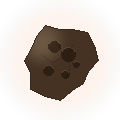
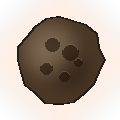
Changing sprites now YOLOv5 only detects 2 kind of objects (clock - Obstacle and airplane - Player)

Changed region(s): [[0.125, 0.125, 0.9, 0.875], [0.5, 0.575, 0.6, 0.7], [0.475, 0.6, 0.525, 0.625]]

diff --git a/js/Game.js b/js/Game.js
@@ -45,9 +45,25 @@ export default class Game {
     this.levelManager = new LevelManager() // Gerenciador de dificuldade
     this.predictions = []  // Detecções do YOLO (bounding boxes para debug visual)
 
+    // Sistema de anúncio de level up
+    this.levelAnnounce = null  // { level, startTime }
+    this.levelColors = [
+      '#00FF88', // Level 1 — verde neon
+      '#00BFFF', // Level 2 — azul celeste
+      '#FFD700', // Level 3 — dourado
+      '#FF6B35', // Level 4 — laranja
+      '#FF1493', // Level 5 — rosa forte
+      '#9B59FF', // Level 6 — roxo
+      '#00FFFF', // Level 7 — ciano
+      '#FF0040', // Level 8 — vermelho intenso
+    ]
+
     new Input(this.player) // Registra os controles do teclado (Espaço → pulo)
 
     this.setupWorker() // Configura comunicação com o Worker
+
+    // Mostra "LEVEL 1" ao iniciar o jogo
+    this.levelAnnounce = { level: 1, startTime: performance.now() }
   }
 
   // setupWorker — Configura envio periódico de frames e escuta respostas do Worker
@@ -89,16 +105,6 @@ export default class Game {
       //
       this.worker.postMessage({ type: 'predict', image: bitmap }, [bitmap])
 
-      // Também envia o estado do jogo (dados numéricos, mais leve)
-      this.worker.postMessage({
-        type: 'gameState',
-        state: {
-          player: { x: this.player.x, y: this.player.y, vy: this.player.vy },
-          obstacles: this.obstacles.map(o => ({ x: o.x, y: o.y, w: o.w, h: o.h })),
-          score: this.score,
-          level: this.levelManager.level
-        }
-      })
     }, 200)
   }
 
@@ -138,13 +144,16 @@ export default class Game {
       o.update(this.levelManager.speed()) // Move o obstáculo para a esquerda na velocidade do nível
 
       if (collide(this.player, o)) { // Testa colisão jogador ↔ obstáculo
-        this.gameOver()              // Se colidiu, fim de jogo
+        this.gameOver();
+        return;// Se colidiu, fim de jogo
       }
 
       if (o.x + o.w < 0) {                  // Se o obstáculo saiu completamente da tela pela esquerda
         this.obstacles.splice(i, 1)          // Remove da lista
         this.score++                         // Incrementa a pontuação
-        this.levelManager.update(this.score) // Verifica se deve subir de nível
+        if (this.levelManager.update(this.score)) { // Verifica se subiu de nível
+          this.levelAnnounce = { level: this.levelManager.level, startTime: performance.now() }
+        }
       }
     }
   }
@@ -189,6 +198,9 @@ export default class Game {
 
     // Desenha bounding boxes das detecções YOLO (retângulos vermelhos)
     this.drawPredictions();
+
+    // Desenha anúncio de level up (se ativo)
+    this.drawLevelAnnounce()
     
     // Se o jogo acabou, desenha a tela de Game Over por cima de tudo
     if (!this.running) {
@@ -207,6 +219,50 @@ export default class Game {
       this.ctx.font = "14px Arial"
       this.ctx.fillText(`${pred.label} ${(pred.confidence * 100).toFixed(0)}%`, x1, y1 - 4)
     }
+  }
+
+  // drawLevelAnnounce — Exibe "LEVEL X" grande na tela por 2 segundos com fade out
+  drawLevelAnnounce() {
+    if (!this.levelAnnounce) return
+
+    const elapsed = performance.now() - this.levelAnnounce.startTime
+    const duration = 2000 // 2 segundos de exibição
+
+    if (elapsed > duration) {
+      this.levelAnnounce = null
+      return
+    }
+
+    const cx = this.canvas.width / 2
+    const cy = this.canvas.height / 2
+
+    // Opacidade: 100% no primeiro segundo, fade out no segundo
+    const alpha = elapsed < 1000 ? 1 : 1 - (elapsed - 1000) / 1000
+
+    // Escala: começa grande (1.3) e diminui até 1.0 nos primeiros 300ms
+    const scale = elapsed < 300 ? 1.3 - 0.3 * (elapsed / 300) : 1.0
+
+    const level = this.levelAnnounce.level
+    const color = this.levelColors[level - 1] || '#FFFFFF'
+
+    this.ctx.save()
+    this.ctx.globalAlpha = alpha
+    this.ctx.textAlign = 'center'
+
+    // Fundo escuro sutil atrás do texto
+    this.ctx.fillStyle = `rgba(0, 0, 0, ${0.4 * alpha})`
+    this.ctx.fillRect(0, cy - 60 * scale, this.canvas.width, 120 * scale)
+
+    // Texto "LEVEL X" com borda preta
+    this.ctx.font = `bold ${Math.round(64 * scale)}px Impact, Arial`
+    this.ctx.strokeStyle = 'black'
+    this.ctx.lineWidth = 6
+    this.ctx.strokeText('LEVEL ' + level, cx, cy + 10)
+    this.ctx.fillStyle = color
+    this.ctx.fillText('LEVEL ' + level, cx, cy + 10)
+
+    this.ctx.restore()
+    this.ctx.textAlign = 'left' // Reseta alinhamento
   }
 
   // drawGameOver — Desenha a tela de fim de jogo com estilo de game em vermelho

diff --git a/js/Obstacle.js b/js/Obstacle.js
@@ -8,6 +8,7 @@
  * - update(speed): move o obstáculo para a esquerda na velocidade recebida.
  * - draw(ctx): desenha o sprite de meteoro na posição atual.
  * - Quando x + w < 0 (saiu da tela), é removido pelo Game e conta como ponto.
+ * - Usa sprite PNG estático para consistência na detecção do YOLOv5.
  */
 
 export default class Obstacle {
@@ -16,36 +17,28 @@ export default class Obstacle {
   constructor(canvas) {
     this.canvas = canvas
 
-    this.w = 50
-    this.h = Math.random() * 120 + 60
+    // Tamanho base aleatório entre 35 e 90px, proporção 1:1 (meteorito redondo)
+    const size = Math.random() * 55 + 35
+    this.w = size
+    this.h = size // quadrado perfeito = redondo sem distorção
 
     this.x = canvas.width
-    this.y = Math.random() * (canvas.height - this.h) - 30
+    this.y = Math.random() * (canvas.height - this.h)
 
-    // Ângulo de rotação aleatório para cada meteoro
-    this.rotation = Math.random() * Math.PI * 2
-    this.rotationSpeed = (Math.random() - 0.5) * 0.04
-
-    this.sprite = new Image()            // Cria objeto de imagem
-    this.sprite.src = "./assets/obstacle.png" // Carrega o sprite do obstáculo
+    this.sprite = new Image()
+    this.sprite.src = "./assets/obstacle.png"
   }
 
-  // update — Move o obstáculo para a esquerda e rotaciona lentamente
+  // update — Move o obstáculo para a esquerda na velocidade recebida do LevelManager
   update(speed) {
     this.x -= speed
-    this.rotation += this.rotationSpeed
   }
 
-  // draw — Desenha o meteoro com rotação na posição atual
+  // draw — Desenha o sprite do meteoro na posição atual (sem rotação, alinhado à hitbox AABB)
   draw(ctx) {
-    ctx.save()
-    const cx = this.x + this.w / 2
-    const cy = this.y + this.h / 2
-    ctx.translate(cx, cy)
-    ctx.rotate(this.rotation)
-    // O sprite tem padding de 12px em cada lado
-    ctx.drawImage(this.sprite, -(this.w / 2 + 12), -(this.h / 2 + 12))
-    ctx.restore()
+    if (this.sprite.complete) {
+      ctx.drawImage(this.sprite, this.x, this.y, this.w, this.h)
+    }
   }
 
 }

diff --git a/js/GameWorker.js b/js/GameWorker.js
@@ -199,6 +199,11 @@ self.onmessage = async (e) => {
   const { type } = e.data
 
   if (type === 'predict') {
+    return handlePredictEvent(e);
+  }
+}
+
+async function handlePredictEvent(e) {
     // Ignora se o modelo ainda não carregou
     if (!_model) {
       console.log('[Worker] Modelo ainda não carregado, ignorando frame')
@@ -224,17 +229,10 @@ self.onmessage = async (e) => {
       // Se a inferência falhar, garante que o tensor de entrada seja liberado
       tf.dispose(input)
       console.error('[Worker] Erro na predição:', err)
-    }
-  }  
-
-  if (type === 'gameState') {
-    const state = e.data.state
-    // TODO: Usar o estado do jogo (posição do jogador, obstáculos, score)
-    // para decidir se deve pular ou não
-    // Exemplo: if (state.player.y > 300) → pular
-    //console.log('[Worker] Estado recebido:', state)
-  }
+    }      
 }
+
+
 
 loadModelYOLOv5AndItsLabels();
 console.log('🧠 YOLOv5n Web Worker initialized');

diff --git a/js/LevelManager.js b/js/LevelManager.js
@@ -38,8 +38,9 @@ export default class LevelManager {
   update(score) {
     if (score % 10 === 0 && this.level < 8) {
       this.level++
-      alert("Level " + this.level)
+      return true // Indica que subiu de nível (Game.js cuida da exibição)
     }
+    return false
   }
 
 }
